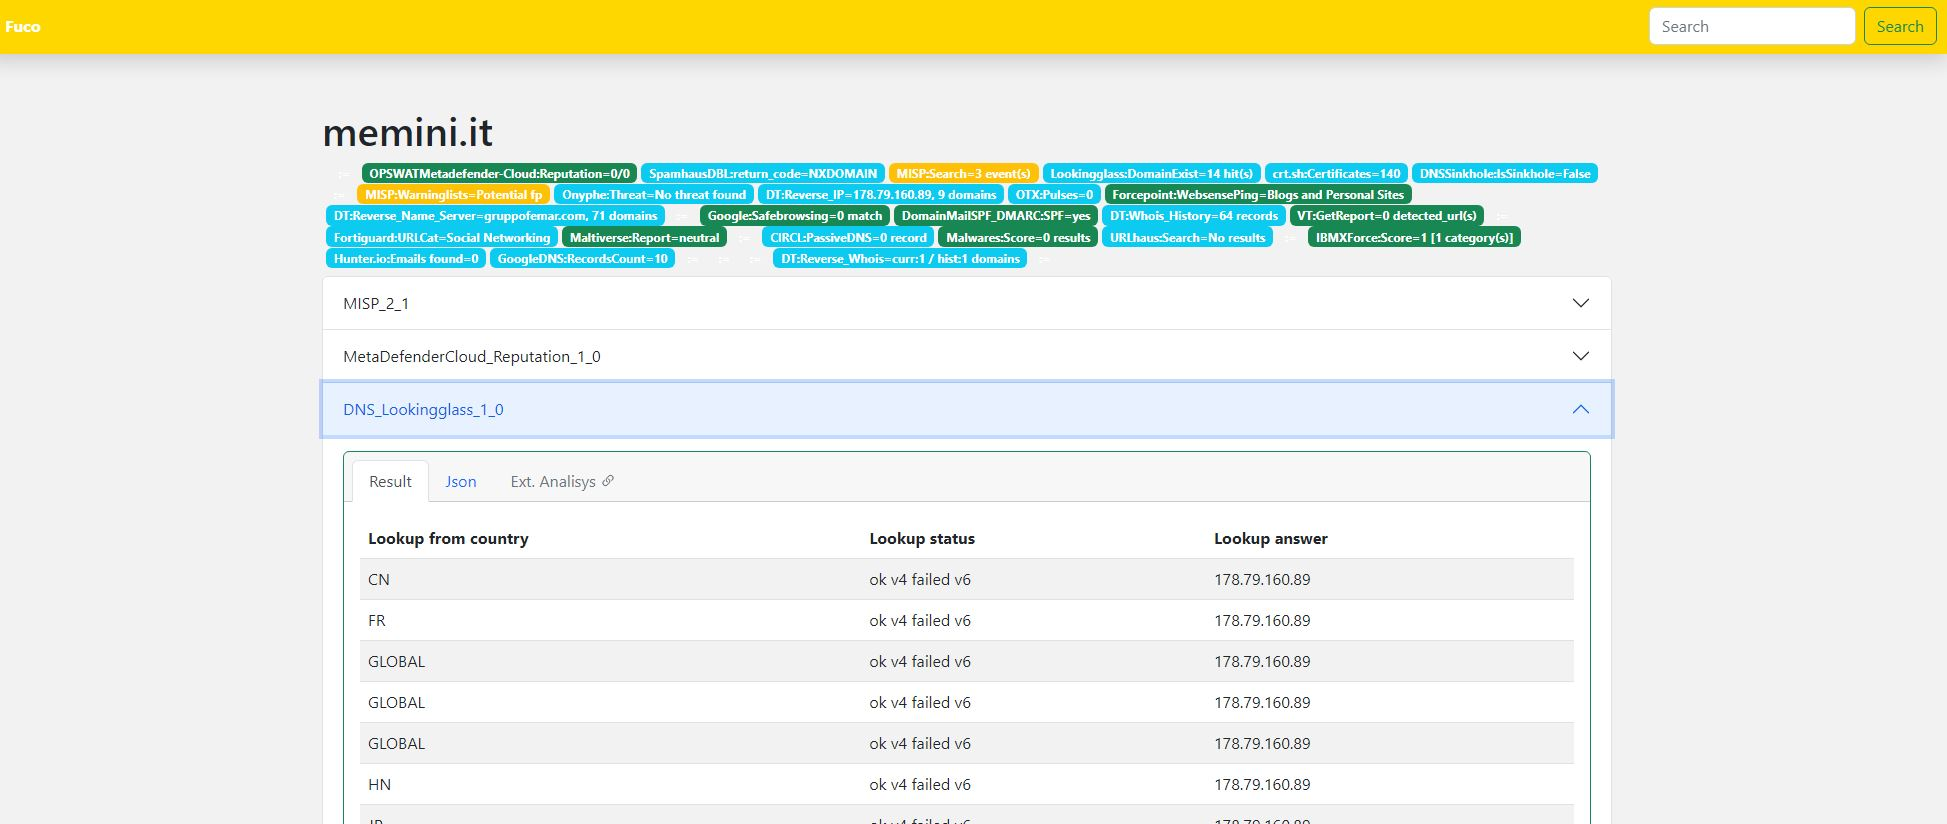
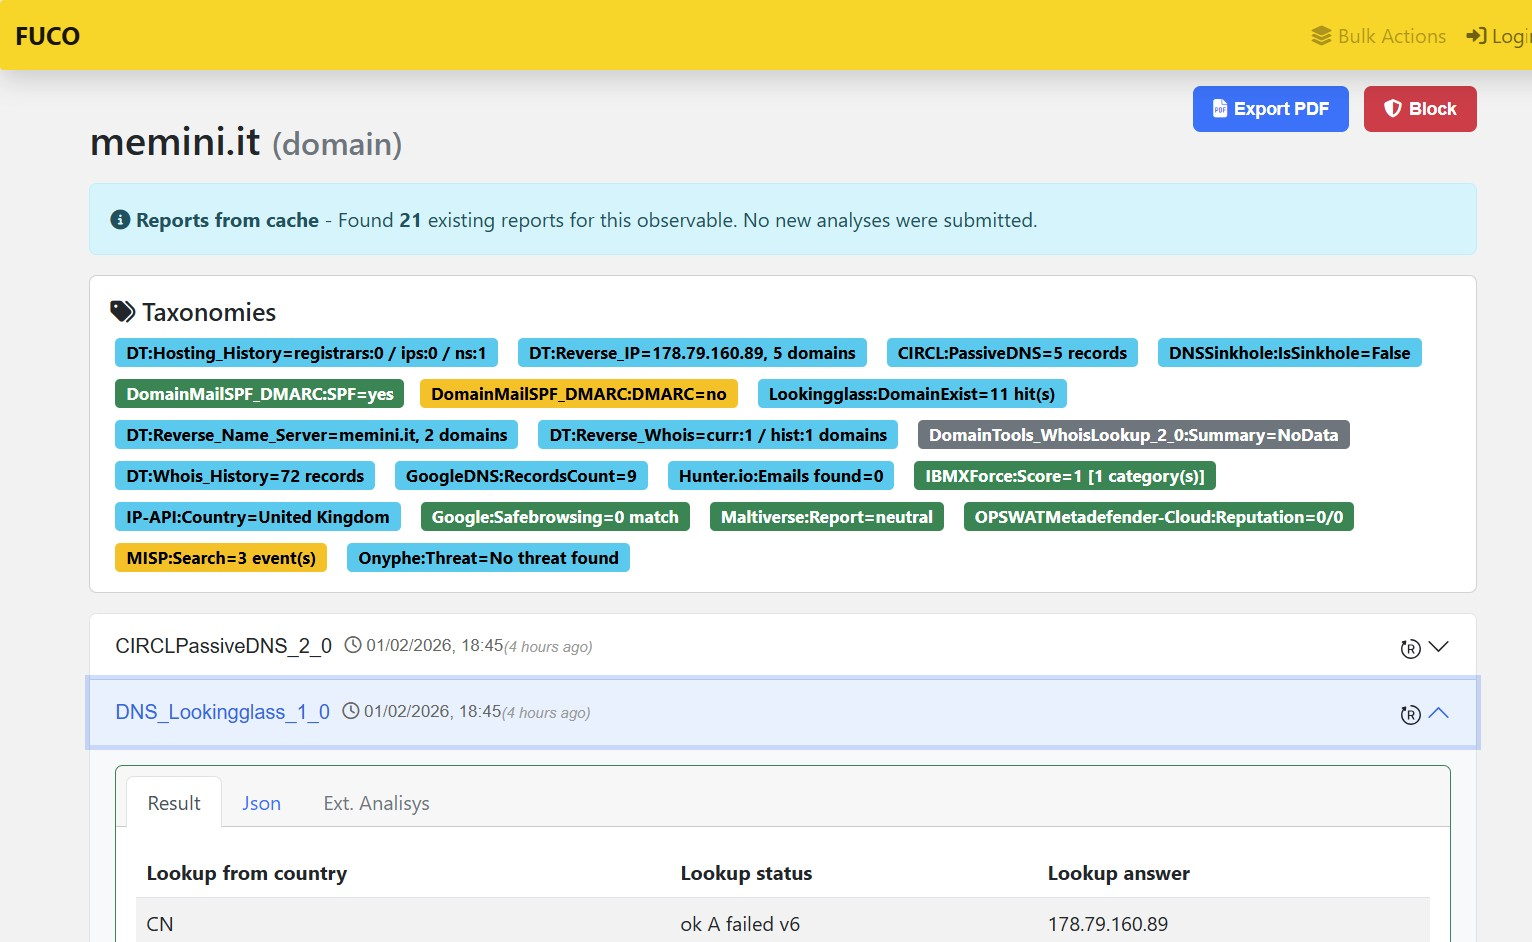
new screenshot. tab error fix

diff --git a/web/templates/bulk_responder.html b/web/templates/bulk_responder.html
@@ -10,6 +10,10 @@
     <link href="/css/main.css" rel="stylesheet">
     <link rel="stylesheet" href="https://cdnjs.cloudflare.com/ajax/libs/font-awesome/6.2.1/css/all.min.css">
     <script src="https://code.jquery.com/jquery-3.4.1.min.js"></script>
+        <script>
+            window.FUCO_DEFAULT_TLP = {{ config.DEFAULT_TLP }};
+            window.FUCO_DEFAULT_PAP = {{ config.DEFAULT_PAP }};
+        </script>
     <script src="/js/responder_actions.js"></script>
     <script>
         function getCsrfToken() {
@@ -258,19 +262,19 @@
                         <div class="col-md-6">
                             <label>TLP Level:</label>
                             <select class="form-control" id="bulkTLP">
-                                <option value="0">WHITE (0)</option>
-                                <option value="1">GREEN (1)</option>
-                                <option value="2" selected>AMBER (2)</option>
-                                <option value="3">RED (3)</option>
+                                <option value="0" {% if config.DEFAULT_TLP == 0 %}selected{% endif %}>WHITE (0)</option>
+                                <option value="1" {% if config.DEFAULT_TLP == 1 %}selected{% endif %}>GREEN (1)</option>
+                                <option value="2" {% if config.DEFAULT_TLP == 2 %}selected{% endif %}>AMBER (2)</option>
+                                <option value="3" {% if config.DEFAULT_TLP == 3 %}selected{% endif %}>RED (3)</option>
                             </select>
                         </div>
                         <div class="col-md-6">
                             <label>PAP Level:</label>
                             <select class="form-control" id="bulkPAP">
-                                <option value="0">WHITE (0)</option>
-                                <option value="1">GREEN (1)</option>
-                                <option value="2" selected>AMBER (2)</option>
-                                <option value="3">RED (3)</option>
+                                <option value="0" {% if config.DEFAULT_PAP == 0 %}selected{% endif %}>WHITE (0)</option>
+                                <option value="1" {% if config.DEFAULT_PAP == 1 %}selected{% endif %}>GREEN (1)</option>
+                                <option value="2" {% if config.DEFAULT_PAP == 2 %}selected{% endif %}>AMBER (2)</option>
+                                <option value="3" {% if config.DEFAULT_PAP == 3 %}selected{% endif %}>RED (3)</option>
                             </select>
                         </div>
                     </div>

diff --git a/web/static/js/responder_actions.js b/web/static/js/responder_actions.js
@@ -29,6 +29,16 @@ class ResponderModal {
         this.init();
     }
 
+    getDefaultTlp() {
+        const value = Number(window.FUCO_DEFAULT_TLP);
+        return Number.isInteger(value) ? value : 2;
+    }
+
+    getDefaultPap() {
+        const value = Number(window.FUCO_DEFAULT_PAP);
+        return Number.isInteger(value) ? value : 2;
+    }
+
     init() {
         if (!document.getElementById('responderModal')) {
             this.createModal();
@@ -107,6 +117,15 @@ class ResponderModal {
         `;
 
         document.body.insertAdjacentHTML('beforeend', modalHTML);
+
+        const tlpSelect = document.getElementById('tlpSelect');
+        if (tlpSelect) {
+            tlpSelect.value = String(this.getDefaultTlp());
+        }
+        const papSelect = document.getElementById('papSelect');
+        if (papSelect) {
+            papSelect.value = String(this.getDefaultPap());
+        }
 
         document.getElementById('executeResponderBtn').addEventListener('click', () => {
             this.executeResponders();

diff --git a/web/templates/index.html b/web/templates/index.html
@@ -11,6 +11,10 @@
 <link href="/css/bootstrap.min.css" rel="stylesheet">
 <link rel="stylesheet" href="https://cdnjs.cloudflare.com/ajax/libs/font-awesome/6.2.1/css/all.min.css">
 	<script src="https://code.jquery.com/jquery-3.4.1.min.js" integrity="sha256-CSXorXvZcTkaix6Yvo6HppcZGetbYMGWSFlBw8HfCJo=" crossorigin="anonymous"></script>
+  <script>
+    window.FUCO_DEFAULT_TLP = {{ config.DEFAULT_TLP }};
+    window.FUCO_DEFAULT_PAP = {{ config.DEFAULT_PAP }};
+  </script>
 	<script src="/js/responder_actions.js"></script>
 	<link rel="stylesheet" href="https://cdnjs.cloudflare.com/ajax/libs/font-awesome/6.2.1/css/all.min.css" integrity="sha512-MV7K8+y+gLIBoVD59lQIYicR65iaqukzvf/nwasF0nqhPay5w/9lJmVM2hMDcnK1OnMGCdVK+iQrJ7lzPJQd1w==" crossorigin="anonymous" referrerpolicy="no-referrer" />
 	<link href="https://cdn.jsdelivr.net/npm/pretty-checkbox@3.0/dist/pretty-checkbox.min.css" rel="stylesheet" />  

diff --git a/web/templates/report_async.html b/web/templates/report_async.html
@@ -9,6 +9,10 @@
     <link href="/css/main.css" rel="stylesheet">
     <link rel="stylesheet" href="https://cdnjs.cloudflare.com/ajax/libs/font-awesome/6.2.1/css/all.min.css">
     <script src="https://code.jquery.com/jquery-3.4.1.min.js"></script>
+    <script>
+      window.FUCO_DEFAULT_TLP = {{ config.DEFAULT_TLP }};
+      window.FUCO_DEFAULT_PAP = {{ config.DEFAULT_PAP }};
+    </script>
     <script src="{{ url_for('static', filename='js/responder_actions.js') }}"></script>
     <script>
   function getCsrfToken() {

diff --git a/web/templates/all_reports.html b/web/templates/all_reports.html
@@ -9,6 +9,10 @@
     <link href="/css/main.css" rel="stylesheet">
     <link rel="stylesheet" href="https://cdnjs.cloudflare.com/ajax/libs/font-awesome/6.2.1/css/all.min.css">
     <script src="https://code.jquery.com/jquery-3.4.1.min.js"></script>
+    <script>
+      window.FUCO_DEFAULT_TLP = {{ config.DEFAULT_TLP }};
+      window.FUCO_DEFAULT_PAP = {{ config.DEFAULT_PAP }};
+    </script>
     <script src="/js/responder_actions.js"></script>
     <script>
       function getCsrfToken() {

diff --git a/web/templates/no_reports.html b/web/templates/no_reports.html
@@ -9,6 +9,10 @@
     <link href="/css/bootstrap.min.css" rel="stylesheet">
     <link href="/css/main.css" rel="stylesheet">
     <link rel="stylesheet" href="https://cdnjs.cloudflare.com/ajax/libs/font-awesome/6.2.1/css/all.min.css">
+    <script>
+      window.FUCO_DEFAULT_TLP = {{ config.DEFAULT_TLP }};
+      window.FUCO_DEFAULT_PAP = {{ config.DEFAULT_PAP }};
+    </script>
     <script src="/js/responder_actions.js"></script>
     
     <style>

diff --git a/responder_manager.py b/responder_manager.py
@@ -156,8 +156,8 @@ class ResponderManager:
                      username: str = None,
                      password: str = None,
                      api_key: str = None,
-                     tlp: int = 2,
-                     pap: int = 2,
+                     tlp: int = responder_cfg.RESPONDER_DEFAULT_TLP,
+                     pap: int = responder_cfg.RESPONDER_DEFAULT_PAP,
                      message: str = None) -> ResponderAction:
         """
         Execute a responder on an observable.
@@ -257,8 +257,8 @@ class ResponderManager:
                           username: str = None,
                           password: str = None,
                           api_key: str = None,
-                          tlp: int = 2,
-                          pap: int = 2,
+                          tlp: int = responder_cfg.RESPONDER_DEFAULT_TLP,
+                          pap: int = responder_cfg.RESPONDER_DEFAULT_PAP,
                           message: str = None) -> List[ResponderAction]:
         """
         Execute multiple responders on multiple observables.

diff --git a/config_responder.py b/config_responder.py
@@ -7,6 +7,8 @@ Configuration for the Responder system.
 Add to config.py or use as a separate file.
 """
 
+import config
+
 # ============ RESPONDER CONFIGURATION ============
 
 # Enable/disable responder functionality
@@ -51,8 +53,8 @@ RESPONDER_PRESETS = {
 }
 
 # Default TLP/PAP for responders (if not specified)
-RESPONDER_DEFAULT_TLP = 2  # AMBER
-RESPONDER_DEFAULT_PAP = 2  # AMBER
+RESPONDER_DEFAULT_TLP = config.DEFAULT_TLP
+RESPONDER_DEFAULT_PAP = config.DEFAULT_PAP
 
 # Default responder message (used if message is empty)
 RESPONDER_DEFAULT_MESSAGE = "FUCO responder action"

diff --git a/README.md b/README.md
@@ -810,8 +810,11 @@ curl http://localhost:5000/api/getAnalyzer
 ### Search Interface
 ![FUCO Search](https://github.com/lucamemini/fuco/blob/master/img/fuco_search.jpg?raw=true)
 
-### Results View
+### Results Results
 ![FUCO Results](https://github.com/lucamemini/fuco/blob/master/img/fuco_result.jpg?raw=true)
+
+### Bulk Action
+![FUCO Bulk](https://github.com/lucamemini/fuco/blob/master/img/fuco_bulk.jpg?raw=true)
 
 ## 🔧 Troubleshooting
 
